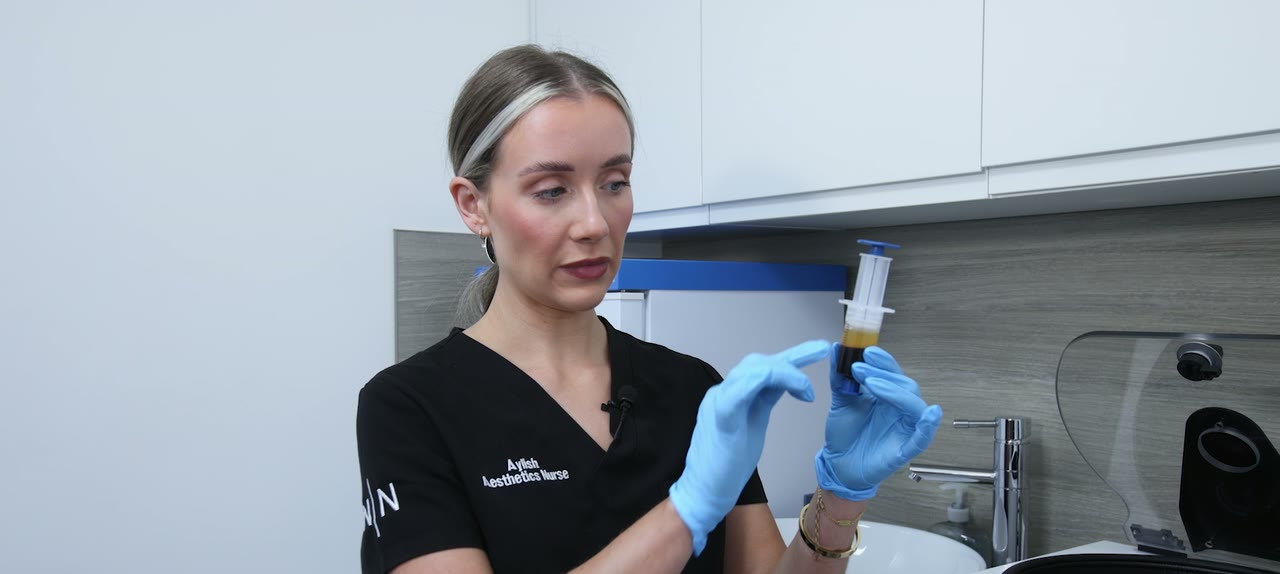
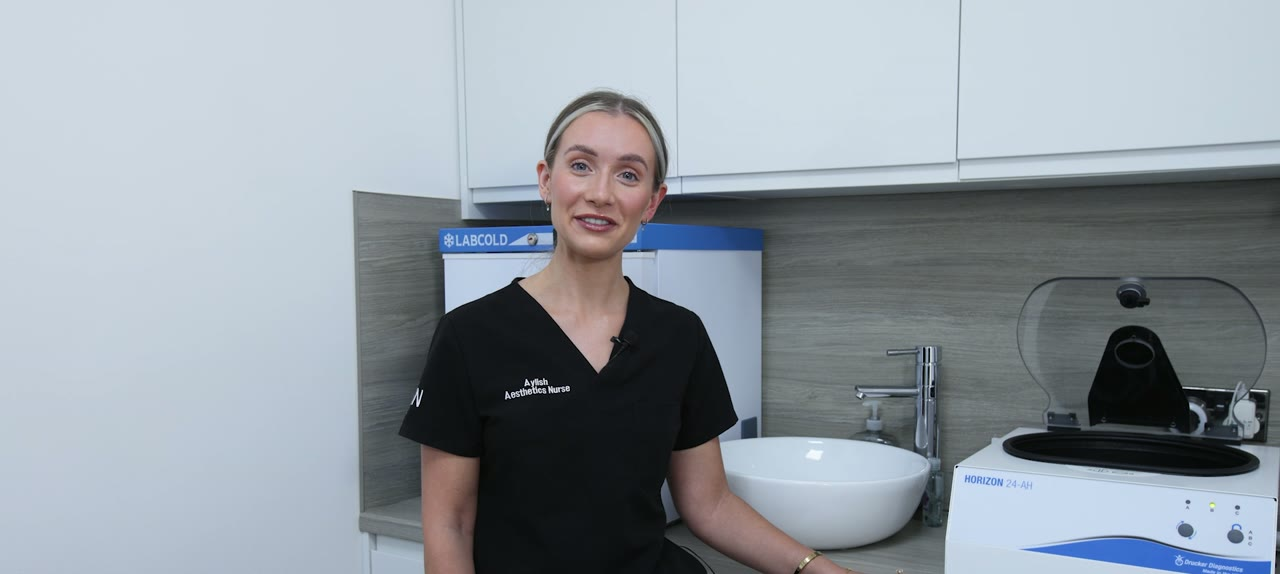
Apply the clinic's answers to the four Azira pages
Skin boosters return to the skin laxity page (price and photo still to come), Grace's title leads with the clinic, the callback promise is confirmed, and "in Newport" goes back into the hero copy since only the FAQs needed it removed. New frames from the clinic's films replace the skin laxity hero, the PRP film poster and the PRP for skin photo.

diff --git a/content/azira/skin-laxity.ts b/content/azira/skin-laxity.ts
@@ -4,7 +4,8 @@ import type { ConcernPageInput } from "../schema"
 // On 2026-11-12 the clinic merged its Morpheus8 and RF microneedling pages
 // into this one (their old addresses redirect here, see `aliases`), and
 // supplied the price, the results timing and the wording for contraindications
-// ("Updates to landing pages" document).
+// ("Updates to landing pages" document). The clinic then confirmed the page
+// covers Morpheus8 and skin boosters only, so Forma is not on it.
 // From the clinic's own videos (docs/azira-video-facts.md): radiofrequency and
 // microneedling in the same treatment, different depths to stimulate the
 // collagen layers, lower face contouring, the jowls and sagging skin, an hour
@@ -50,11 +51,12 @@ export const skinLaxity = {
       },
     ],
     image: {
-      id: "hero-still",
-      alt: "Blue-gloved hands guiding the Morpheus8 handpiece across a patient's face",
-      note: "Clinic's own treatment shot from the Morpheus8 film",
+      // The clinic asked for a frame where Grace isn't mid-sentence (2026-11-12)
+      id: "hero-skin-laxity",
+      alt: "Grace, in black scrubs and blue gloves, holding the Morpheus8 handpiece and looking down at her patient",
+      note: "Clinic's own treatment shot from the Morpheus8 film: Grace with the handpiece, looking down at her patient",
       caption: "Morpheus8 in clinic · Newport",
-      src: "/assets/azira/hero-still.jpg",
+      src: "/assets/azira/hero-skin-laxity.jpg",
     },
   },
   form: {
@@ -96,9 +98,9 @@ export const skinLaxity = {
     ],
   },
   treatments: {
-    heading: "Morpheus8 at Azira",
+    heading: "Morpheus8 and skin boosters at Azira",
     intro:
-      "Watch Grace perform a Morpheus8 treatment, through to the LED aftercare. Every treatment here is delivered by medical professionals, and you'll see your exact price before you decide.",
+      "Watch Grace perform a Morpheus8 treatment, through to the LED aftercare. Your plan may use Morpheus8, skin boosters or both. Every treatment here is delivered by medical professionals, and you'll see your exact price before you decide.",
     film: {
       id: "film-morpheus8",
       title: "Morpheus8 at Azira Aesthetics",
@@ -138,6 +140,30 @@ export const skinLaxity = {
           "Skin tightening along the jaw, lower face and neck, and improved texture",
         // Clinic's price, 2026-11-12
         fromPrice: 350,
+        prescriptionOnly: false,
+      },
+      // Kept at the clinic's request (2026-11-12). The price and a photo are
+      // still to come; the figures are drafts to confirm with the clinic
+      {
+        id: "skin-boosters",
+        name: "Skin boosters",
+        kind: "Injectable hydration",
+        image: {
+          id: "treatment-skin-boosters",
+          alt: "A gloved hand holding a skin booster syringe",
+          note: "Gloved hand with a skin booster syringe, dark background",
+          caption: "Skin booster · Treatment room",
+        },
+        summary:
+          "Injectable hyaluronic acid that hydrates from within and improves the skin's firmness and quality.",
+        // draft: typical figure, confirm with clinic
+        sessions: "Usually 2, about 4 weeks apart",
+        // draft: typical figure, confirm with clinic
+        downtime: "Small raised marks for 24 to 48 hours",
+        // draft: typical figure, confirm with clinic
+        results: "Skin looks more hydrated within weeks",
+        bestFor: "Crepey, dehydrated or thinning skin on the face and neck",
+        fromPrice: null,
         prescriptionOnly: false,
       },
     ],
@@ -242,12 +268,12 @@ export const skinLaxity = {
         question: "Is there downtime?",
         // draft: typical figure, confirm with clinic
         answer:
-          "Most people have some redness for one to three days. We can finish with a Dermalux LED session to calm your skin, reduce the redness and enhance your results. We'll plan your sessions around your diary.",
+          "Most people have some redness for one to three days. We can finish with a Dermalux LED session to calm your skin, reduce the redness and enhance your results. After skin boosters you may see small raised marks for a day or two. We'll plan your sessions around your diary.",
       },
       {
-        question: "How much does Morpheus8 cost?",
+        question: "How much will it cost?",
         answer:
-          "Morpheus8 starts from £350. Your exact price depends on the area and the number of sessions you need, and you'll have it in writing before you decide anything. Your consultation is complimentary.",
+          "Morpheus8 starts from £350 and skin boosters from £[price]. Your exact price depends on the area and the number of sessions you need, and you'll have it in writing before you decide anything. Your consultation is complimentary.",
       },
       {
         question: "When will I see results?",

diff --git a/content/azira/prp.ts b/content/azira/prp.ts
@@ -28,7 +28,7 @@ export const prp = {
     headlines: [
       {
         adGroup: "prp-hair-treatment",
-        headline: "PRP hair treatment, led by nurses",
+        headline: "PRP hair treatment in Newport, led by nurses",
         intro:
           "We check what's behind your thinning first. If PRP suits you, it uses plasma from your own blood and usually takes around 10 to 15 minutes.",
         concernOption: "Thinning hair",
@@ -110,8 +110,9 @@ export const prp = {
       poster: {
         id: "poster-film-prp",
         src: "/assets/azira/poster-film-prp.jpg",
-        alt: "Aylish holding up a syringe of separated plasma beside the centrifuge",
-        note: "Still from the PRP film: Aylish holds up a syringe of separated plasma beside the centrifuge",
+        // The clinic asked for a better still of Aylish (2026-11-12)
+        alt: "Aylish, in black scrubs, smiling beside the centrifuge in the treatment room",
+        note: "Still from the PRP film: Aylish smiling to camera beside the centrifuge",
       },
       src: "/assets/azira/film-prp.mp4",
     },
@@ -149,9 +150,11 @@ export const prp = {
         image: {
           id: "treatment-prp-skin",
           src: "/assets/azira/treatment-prp-skin.jpg",
-          alt: "A microneedling handpiece on a patient's forehead, held in gloved hands",
-          note: "Clinic's own treatment shot: gloved hands guiding a microneedling handpiece across the forehead",
-          caption: "PRP microneedling · Treatment room",
+          // Replaces a shot of the Morpheus8 machine, at the clinic's request
+          // (2026-11-12)
+          alt: "A blue-gloved hand holding up a syringe of separated golden plasma",
+          note: "Clinic's own shot from the PRP film: the separated plasma held up in a gloved hand",
+          caption: "Separated plasma · Treatment room",
         },
         summary:
           "Plasma from your own blood, microneedled into the skin or injected under the eye, on the face or neck, to help support skin quality.",

diff --git a/content/azira/laser-hair-removal.ts b/content/azira/laser-hair-removal.ts
@@ -22,28 +22,28 @@ export const laserHairRemoval = {
   hero: {
     defaultHeadline: "Laser hair removal that lets you put the razor down",
     intro:
-      "Long-lasting hair reduction with a cooled, medical-grade diode laser, delivered by our award-winning nurses. We assess your skin and hair first.",
+      "Long-lasting hair reduction with a cooled, medical-grade diode laser, delivered by our award-winning nurses in Newport. We assess your skin and hair first.",
     // Ad group slugs are drafts until the ads team confirms them
     headlines: [
       {
         adGroup: "leg-laser-hair-removal",
         headline: "Laser hair removal for smoother legs, without shaving",
         intro:
-          "Long-lasting hair reduction on your legs with a cooled diode laser, delivered by our award-winning nurses.",
+          "Long-lasting hair reduction on your legs with a cooled diode laser, delivered by our award-winning nurses in Newport.",
         concernOption: "Legs",
       },
       {
         adGroup: "underarm-laser-hair-removal",
         headline: "Underarm laser hair removal, without the daily shave",
         intro:
-          "Long-lasting hair reduction on your underarms with a cooled diode laser, delivered by our award-winning nurses.",
+          "Long-lasting hair reduction on your underarms with a cooled diode laser, delivered by our award-winning nurses in Newport.",
         concernOption: "Underarms",
       },
       {
         adGroup: "bikini-laser-hair-removal",
         headline: "Bikini line laser hair removal, carried out by nurses",
         intro:
-          "Long-lasting hair reduction along your bikini line with a cooled diode laser, delivered discreetly by our award-winning nurses.",
+          "Long-lasting hair reduction along your bikini line with a cooled diode laser, delivered discreetly by our award-winning nurses in Newport.",
         concernOption: "Bikini line",
       },
     ],

diff --git a/content/azira/clinic.ts b/content/azira/clinic.ts
@@ -20,7 +20,8 @@ export const clinic = {
     { label: "Nurse-led clinic" },
   ],
   consultationFee: "Your consultation is complimentary.",
-  callbackPromise: "[We call back within one working day]",
+  // Confirmed by the clinic, 2026-11-12
+  callbackPromise: "We call back within one working day.",
   awards: [
     "Winner, Best Clinic in Wales 2025",
     "Highly Commended, Best Clinic in Wales 2024",
@@ -54,7 +55,7 @@ export const clinic = {
     {
       name: "Grace",
       qualifications:
-        "Registered Nurse and Independent Nurse Prescriber. Founding Director of The Aesthetics Network and Key Opinion Leader for Croma Pharma. Owner of Azira Aesthetics and Azira Aesthetics Academy.",
+        "Registered Nurse and Independent Nurse Prescriber. Owner of Azira Aesthetics and Azira Aesthetics Academy. Founding Director of The Aesthetics Network and Key Opinion Leader for Croma Pharma.",
       portrait: {
         id: "portrait-grace",
         alt: "Grace, owner and Clinical Director, in the Azira Aesthetics clinic",

diff --git a/docs/azira-answers.md b/docs/azira-answers.md
@@ -127,7 +127,7 @@ Save files to `public/assets/azira/` with these names (JPG or WebP, at least 200
 | File | What it shows |
 | --- | --- |
 | `logo.svg` (or a high-res transparent PNG) | Azira Aesthetics logo |
-| `hero-still.jpg` | Gloved hands at work at the jawline, tight crop. Sits behind the hero; keep the hands right of centre |
+| `hero-skin-laxity.jpg` | Grace holding the Morpheus8 handpiece over her patient. Sits behind the hero; keep the hands right of centre |
 | `treatment-morpheus8.jpg` | Gloved hand with the Morpheus8 handpiece, dark background |
 | `treatment-skin-boosters.jpg` | Gloved hand with a skin booster syringe, dark background |
 | `clinician-portrait.jpg` | The lead nurse in clinic, natural light, portrait 4:5 |
